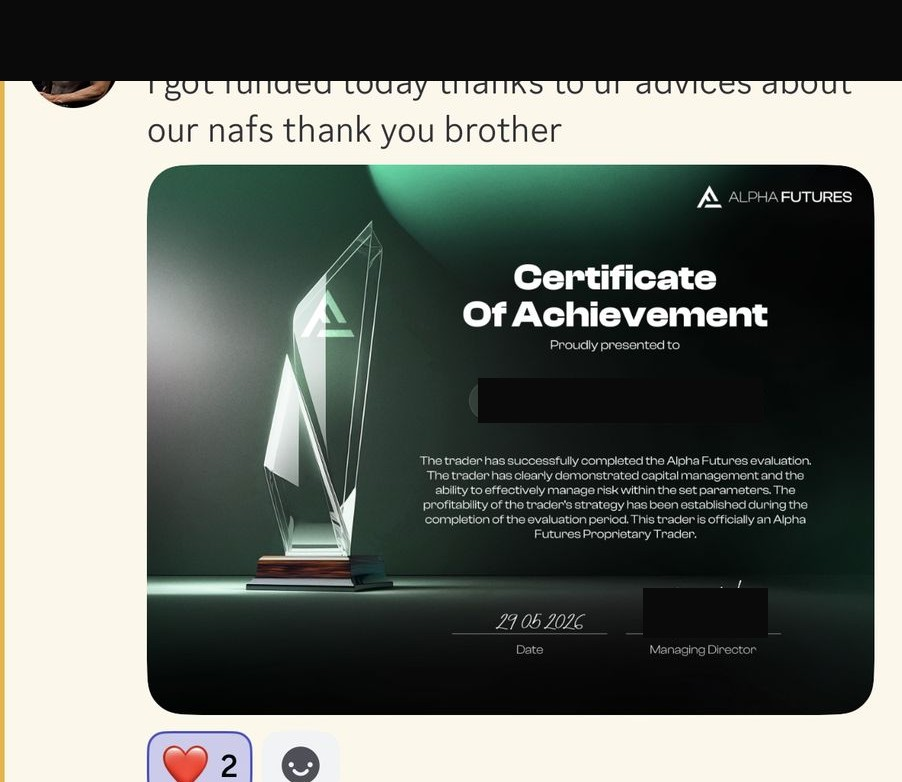
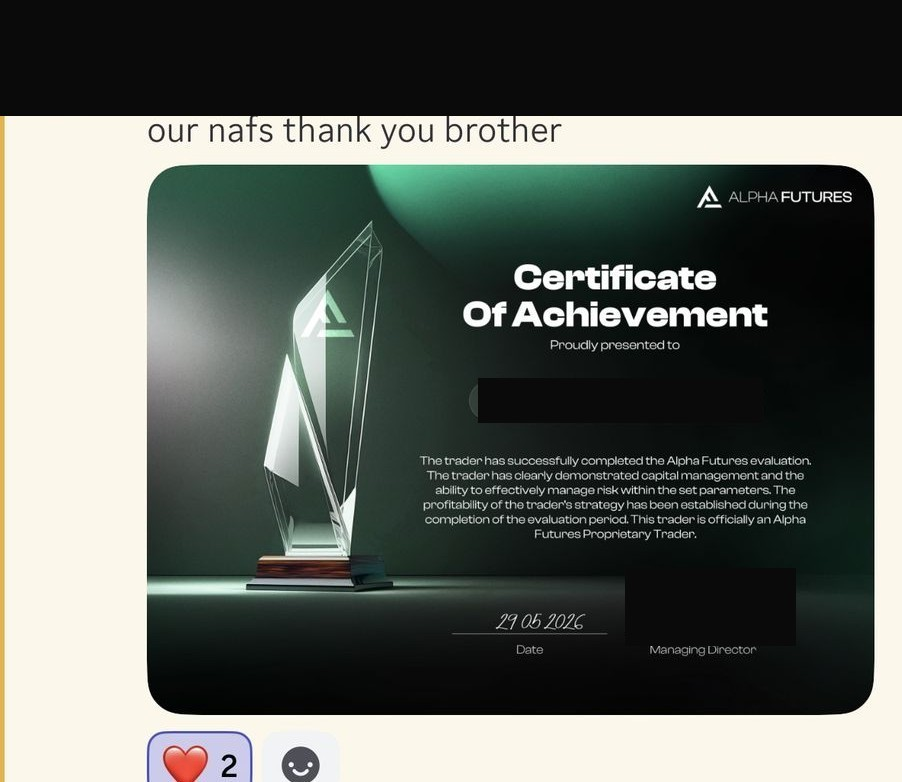
Trim homepage proof/community strips; fix incomplete redactions
- Homepage founder-proof carousel trimmed to the 4 specified shots
  (IMG_4888, IMG_2537, IMG_5035, IMG_4974) with captions restored.
  Removed IMG_4872/4973/4975/4876/4885 from the page (files kept in
  /assets, just unreferenced).
- Community strip trimmed to 4: the two funded/passed-eval shots
  (IMG_4147, IMG_4860) plus two of the three DM thank-yous
  (IMG_4856, IMG_4855). Disclaimer line unchanged.
- Re-verified all six flagged images pixel-by-pixel rather than by
  eye. Found and fixed real gaps: an avatar sliver below the black
  bar on IMG_4147, an avatar icon and a Discord default-icon sliver
  on IMG_4328 (top and bottom boxes were a few px short), and two
  avatar circles on IMG_4857 where the original sender's own
  hand-scribble redaction left crescents visible around the pen
  strokes. All now confirmed zero non-background pixels by scan.

Claude-Session: https://claude.ai/code/session_01JnQau254jLTB65zVav776F

Changed region(s): [[0.0, 0.0921, 1.0, 0.1535], [0.6829, 0.7366, 0.8071, 0.798], [0.8381, 0.7366, 0.9002, 0.798]]

diff --git a/docs/index.html b/docs/index.html
@@ -339,9 +339,11 @@ footer .ar{color:var(--gold);font-size:1.1rem}
         <div class="ctrack">
           <figure class="media cslide">
             <img loading="lazy" src="assets/IMG_4888.jpg" alt="My Topstep dashboard showing dozens of closed, blown evaluation accounts" />
+            <figcaption class="figcap">Blown account</figcaption>
           </figure>
           <figure class="media cslide">
             <img loading="lazy" src="assets/IMG_2537.jpeg" alt="Topstep email: funded account closed for violating the maximum loss limit" />
+            <figcaption class="figcap">Blown account</figcaption>
           </figure>
         </div>
         <button class="cbtn cprev" type="button" aria-label="Previous photo"><svg viewBox="0 0 24 24" fill="none" stroke="currentColor" stroke-width="2"><path d="M15 6l-6 6 6 6"/></svg></button>
@@ -360,24 +362,11 @@ footer .ar{color:var(--gold);font-size:1.1rem}
         <div class="ctrack">
           <figure class="media cslide">
             <img loading="lazy" src="assets/IMG_5035.jpeg" alt="Topstep payout email confirming a $5,000 payout is being processed" />
-          </figure>
-          <figure class="media cslide">
-            <img loading="lazy" src="assets/IMG_4872.jpeg" alt="Topstep payout email confirming a $4,880 payout is being processed" />
+            <figcaption class="figcap">Payout · $5,000</figcaption>
           </figure>
           <figure class="media cslide">
             <img loading="lazy" src="assets/IMG_4974.jpeg" alt="Bank statement showing a $4,372 ACH deposit from TopstepTrader" />
-          </figure>
-          <figure class="media cslide">
-            <img loading="lazy" src="assets/IMG_4973.jpeg" alt="Bank statement showing a $4,480 ACH deposit from TopstepTrader" />
-          </figure>
-          <figure class="media cslide">
-            <img loading="lazy" src="assets/IMG_4975.jpeg" alt="Bank statement showing a $3,049 ACH deposit from TopstepTrader" />
-          </figure>
-          <figure class="media cslide">
-            <img loading="lazy" src="assets/IMG_4876.jpeg" alt="Inbox of Rise withdrawal emails — funds processed and paid out" />
-          </figure>
-          <figure class="media cslide">
-            <img loading="lazy" src="assets/IMG_4885.jpeg" alt="Topstep email confirming another payout is on its way" />
+            <figcaption class="figcap">Bank deposit · $4,372</figcaption>
           </figure>
         </div>
         <button class="cbtn cprev" type="button" aria-label="Previous photo"><svg viewBox="0 0 24 24" fill="none" stroke="currentColor" stroke-width="2"><path d="M15 6l-6 6 6 6"/></svg></button>
@@ -390,10 +379,8 @@ footer .ar{color:var(--gold);font-size:1.1rem}
       <div class="story-media c3">
         <figure class="media"><img loading="lazy" src="assets/IMG_4147.jpeg" alt="A trader in the community sharing that he got funded, crediting advice about governing the nafs" /><figcaption>"I got funded today thanks to ur advices about our nafs."</figcaption></figure>
         <figure class="media"><img loading="lazy" src="assets/IMG_4860.jpeg" alt="A trader sharing a passed evaluation, saying alhamdulillah, almost hit the reset day" /><figcaption>"Alhamdulillah I finally passed the eval."</figcaption></figure>
-        <figure class="media"><img loading="lazy" src="assets/IMG_4328.jpeg" alt="Community members congratulating a trader who just passed his evaluation" /><figcaption>"Mubarak, brother."</figcaption></figure>
         <figure class="media"><img loading="lazy" src="assets/IMG_4856.jpeg" alt="A direct message thanking the author for connecting trading losses to an Islamic perspective" /><figcaption>"The way you connect trading to Islam — I never thought of it that way."</figcaption></figure>
         <figure class="media"><img loading="lazy" src="assets/IMG_4855.jpeg" alt="A direct message thanking the author for always responding and helping through emotional trading" /><figcaption>"Thank you for always responding, bro."</figcaption></figure>
-        <figure class="media"><img loading="lazy" src="assets/IMG_4857.jpeg" alt="A direct message saying the author's videos give an Islamic perspective that helped during hard times" /><figcaption>"You helped me a lot when I have bad times."</figcaption></figure>
       </div>
       <p class="proof-disclaimer">Names and handles in these screenshots have been removed. Individual results. Nothing here is a promise of profit.</p>
     </div>
